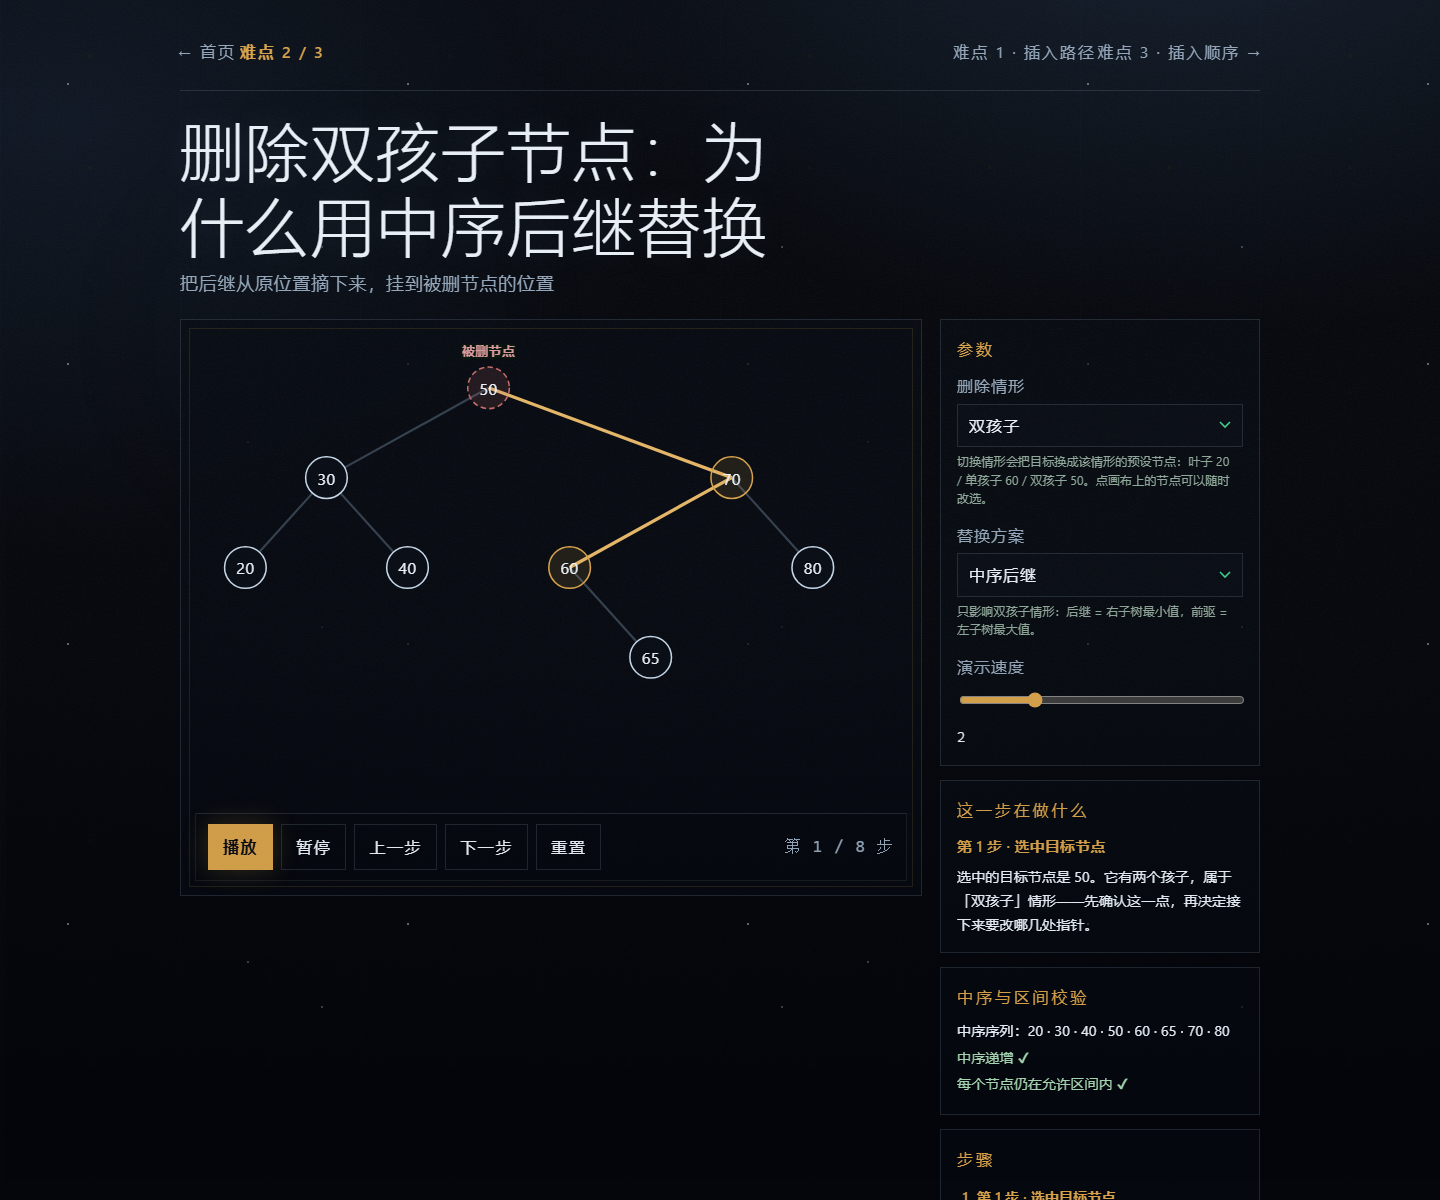
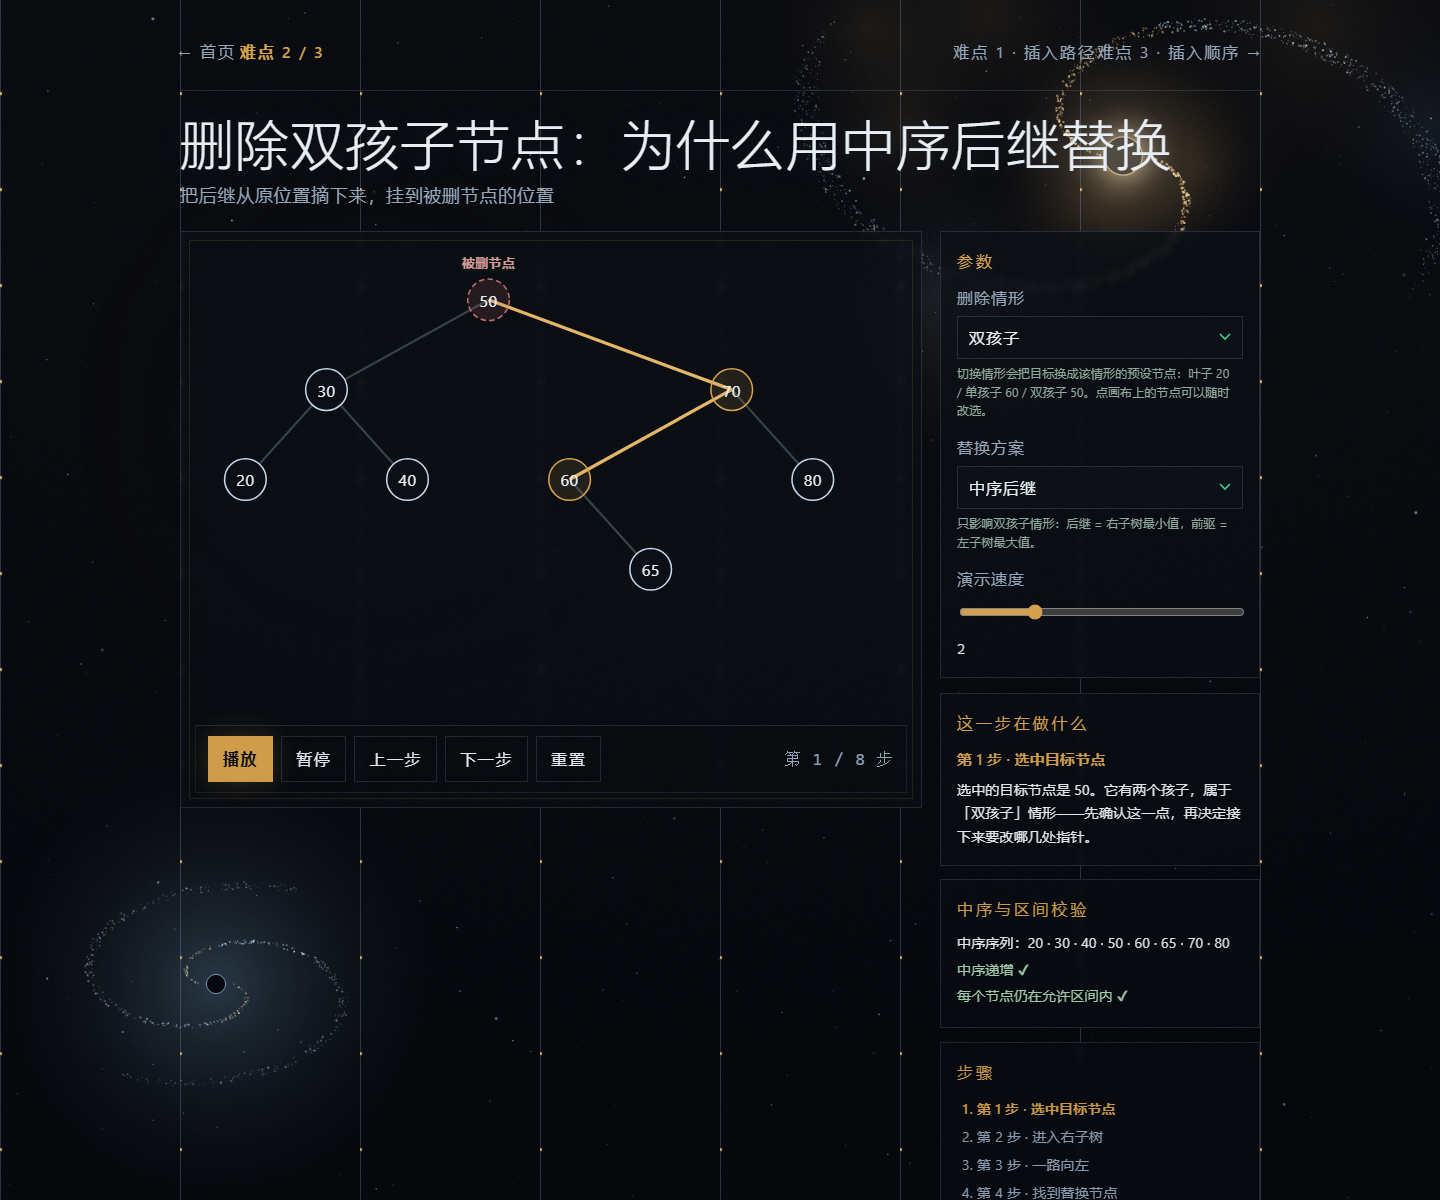
feat(matrix): 加入旋涡星系与动态星空背景

diff --git a/matrix/galaxy.js b/matrix/galaxy.js
@@ -1,0 +1,270 @@
+/* 星空与旋涡星系背景（canvas，纯装饰）
+   - 星点缓慢闪烁，星系缓慢自转
+   - 支持 prefers-reduced-motion：只画一帧
+   - 页面隐藏时暂停 */
+(function () {
+  "use strict";
+
+  var canvas = document.getElementById("galaxy");
+  if (!canvas) return;
+  var ctx = canvas.getContext("2d");
+  var reduce = window.matchMedia && window.matchMedia("(prefers-reduced-motion: reduce)").matches;
+  var dpr = Math.min(window.devicePixelRatio || 1, 2);
+  var w = 0, h = 0;
+  var stars = [];
+  var dust = [];
+  var parts = [];
+  var galaxy2 = { x: 0, y: 0, r: 0 };
+  var parts2 = [];
+  var galaxy = { x: 0.72, y: 0.32, r: 0.42 };
+  var pointer = { x: 0, y: 0 };
+  var scrollShift = 0;
+  var raf = 0;
+  var last = 0;
+  var t0 = 0;
+
+  function rand(a, b) { return a + Math.random() * (b - a); }
+
+  function build() {
+    w = window.innerWidth;
+    h = window.innerHeight;
+    canvas.width = Math.round(w * dpr);
+    canvas.height = Math.round(h * dpr);
+    canvas.style.width = w + "px";
+    canvas.style.height = h + "px";
+    ctx.setTransform(dpr, 0, 0, dpr, 0, 0);
+
+    galaxy.x = w > 900 ? 0.78 : 0.86;
+    galaxy.y = w > 900 ? 0.13 : 0.1;
+    galaxy.r = Math.min(w, h) * (w > 900 ? 0.29 : 0.38);
+    galaxy2.x = w > 900 ? 0.15 : 0.78;
+    galaxy2.y = w > 900 ? 0.82 : 0.9;
+    galaxy2.r = Math.min(w, h) * (w > 900 ? 0.16 : 0.16);
+
+    stars = [];
+    var starCount = Math.round(Math.min(420, (w * h) / 3800));
+    for (var i = 0; i < starCount; i++) {
+      stars.push({
+        x: Math.random() * w,
+        y: Math.random() * h,
+        r: Math.random() < 0.9 ? rand(0.35, 0.9) : rand(0.9, 1.6),
+        a: rand(0.18, 0.8),
+        tw: rand(0.4, 1.4),
+        ph: Math.random() * Math.PI * 2,
+        depth: rand(0.2, 1)
+      });
+    }
+
+    dust = [];
+    for (var d = 0; d < 9; d++) {
+      dust.push({
+        a: Math.random() * Math.PI * 2,
+        t: rand(0.18, 0.95),
+        s: rand(0.22, 0.6),
+        warm: Math.random() < 0.55
+      });
+    }
+
+    parts = [];
+    var arms = 2;
+    var count = Math.round(w > 900 ? 1600 : 800);
+    for (var p = 0; p < count; p++) {
+      var t = Math.pow(Math.random(), 0.62);
+      var arm = p % arms;
+      var spread = rand(-0.12, 0.12) * (0.3 + t);
+      parts.push({
+        t: t,
+        theta: arm * Math.PI + t * 3.6 + spread,
+        r: (0.06 + t * 0.94) * galaxy.r,
+        size: rand(0.5, 1.5) * (1 - t * 0.35),
+        a: rand(0.25, 0.85) * (1 - t * 0.45),
+        warm: t < 0.5
+      });
+    }
+
+    parts2 = [];
+    var arms2 = 2;
+    var count2 = Math.round(w > 900 ? 620 : 260);
+    for (var p2 = 0; p2 < count2; p2++) {
+      var t2 = Math.pow(Math.random(), 0.68);
+      var arm2 = p2 % arms2;
+      var sp2 = rand(-0.16, 0.16) * (0.3 + t2);
+      parts2.push({
+        t: t2,
+        theta: arm2 * Math.PI + t2 * 5.2 + sp2,
+        r: (0.08 + t2 * 0.92) * galaxy2.r,
+        size: rand(0.4, 1.1),
+        a: rand(0.18, 0.7) * (1 - t2 * 0.45),
+        warm: t2 < 0.3
+      });
+    }
+  }
+
+  function draw(time) {
+    var elapsed = time * 0.001;
+    scrollShift = window.scrollY * 0.04;
+    var cx = w * galaxy.x + pointer.x * 14;
+    var cy = h * galaxy.y + pointer.y * 12 - scrollShift;
+
+    ctx.globalCompositeOperation = "source-over";
+    ctx.fillStyle = "#04060b";
+    ctx.fillRect(0, 0, w, h);
+
+    // 星云
+    ctx.globalCompositeOperation = "lighter";
+    for (var i = 0; i < dust.length; i++) {
+      var d = dust[i];
+      var da = d.a + elapsed * 0.004;
+      var dx = cx + Math.cos(da) * galaxy.r * d.t;
+      var dy = cy + Math.sin(da) * galaxy.r * d.t * 0.62;
+      var dr = galaxy.r * d.s;
+      var g = ctx.createRadialGradient(dx, dy, 0, dx, dy, dr);
+      g.addColorStop(0, d.warm ? "rgba(216,162,74,0.10)" : "rgba(120,170,220,0.10)");
+      g.addColorStop(1, "rgba(0,0,0,0)");
+      ctx.fillStyle = g;
+      ctx.fillRect(dx - dr, dy - dr, dr * 2, dr * 2);
+    }
+
+    // 星点
+    for (var s = 0; s < stars.length; s++) {
+      var st = stars[s];
+      var tw = 0.65 + Math.sin(elapsed * st.tw + st.ph) * 0.35;
+      var sy = st.y - scrollShift * st.depth * 0.6;
+      if (sy < -4) sy += h + 8;
+      if (sy > h + 4) sy -= h + 8;
+      ctx.globalAlpha = st.a * tw;
+      ctx.fillStyle = "#dcecff";
+      ctx.beginPath();
+      ctx.arc(st.x, sy, st.r, 0, Math.PI * 2);
+      ctx.fill();
+    }
+    ctx.globalAlpha = 1;
+
+    // 星系核心
+    var core = ctx.createRadialGradient(cx, cy, 0, cx, cy, galaxy.r * 0.42);
+    core.addColorStop(0, "rgba(255,226,178,0.5)");
+    core.addColorStop(0.22, "rgba(255,206,140,0.22)");
+    core.addColorStop(0.6, "rgba(216,162,74,0.08)");
+    core.addColorStop(1, "rgba(0,0,0,0)");
+    ctx.fillStyle = core;
+    ctx.beginPath();
+    ctx.arc(cx, cy, galaxy.r * 0.42, 0, Math.PI * 2);
+    ctx.fill();
+
+    // 旋臂粒子
+    for (var k = 0; k < parts.length; k++) {
+      var q = parts[k];
+      var speed = 0.05 - q.t * 0.022;
+      var ang = q.theta + elapsed * speed;
+      var px = cx + Math.cos(ang) * q.r;
+      var py = cy + Math.sin(ang) * q.r * 0.72;
+      ctx.globalAlpha = q.a;
+      ctx.fillStyle = q.warm ? "#f0c883" : "#bcd8f2";
+      ctx.beginPath();
+      ctx.arc(px, py, q.size, 0, Math.PI * 2);
+      ctx.fill();
+    }
+
+    // 星系核心：暗核 + 吸积环，让旋涡结构有中心
+    ctx.globalCompositeOperation = "source-over";
+    ctx.globalAlpha = 1;
+    var coreR = galaxy.r * 0.055;
+    ctx.beginPath();
+    ctx.arc(cx, cy, coreR, 0, Math.PI * 2);
+    ctx.fillStyle = "#04060b";
+    ctx.fill();
+    ctx.lineWidth = 1.2;
+    ctx.strokeStyle = "rgba(255, 224, 170, 0.85)";
+    ctx.stroke();
+    var ring = ctx.createRadialGradient(cx, cy, coreR, cx, cy, coreR * 3.2);
+    ring.addColorStop(0, "rgba(255, 226, 178, 0.35)");
+    ring.addColorStop(1, "rgba(0,0,0,0)");
+    ctx.fillStyle = ring;
+    ctx.beginPath();
+    ctx.arc(cx, cy, coreR * 3.2, 0, Math.PI * 2);
+    ctx.fill();
+    ctx.globalAlpha = 1;
+
+    // 左下角第二个小星系：正面旋涡，冰蓝色，和右上黑洞形成纵深
+    var c2x = w * galaxy2.x;
+    var c2y = h * galaxy2.y - scrollShift * 0.5;
+    ctx.globalCompositeOperation = "lighter";
+    var halo2 = ctx.createRadialGradient(c2x, c2y, 0, c2x, c2y, galaxy2.r * 1.3);
+    halo2.addColorStop(0, "rgba(150, 205, 245, 0.3)");
+    halo2.addColorStop(1, "rgba(0, 0, 0, 0)");
+    ctx.fillStyle = halo2;
+    ctx.beginPath();
+    ctx.arc(c2x, c2y, galaxy2.r * 1.3, 0, Math.PI * 2);
+    ctx.fill();
+    for (var k2 = 0; k2 < parts2.length; k2++) {
+      var q2 = parts2[k2];
+      var ang2 = q2.theta - elapsed * (0.03 - q2.t * 0.012);
+      var px2 = c2x + Math.cos(ang2) * q2.r;
+      var py2 = c2y + Math.sin(ang2) * q2.r * 0.55;
+      ctx.globalAlpha = q2.a;
+      ctx.fillStyle = q2.warm ? "#f0c883" : "#cfe6f8";
+      ctx.beginPath();
+      ctx.arc(px2, py2, q2.size, 0, Math.PI * 2);
+      ctx.fill();
+    }
+    ctx.globalCompositeOperation = "source-over";
+    ctx.globalAlpha = 1;
+    var core2 = galaxy2.r * 0.05;
+    ctx.beginPath();
+    ctx.arc(c2x, c2y, core2, 0, Math.PI * 2);
+    ctx.fillStyle = "#04060b";
+    ctx.fill();
+    ctx.lineWidth = 1;
+    ctx.strokeStyle = "rgba(178, 216, 244, 0.85)";
+    ctx.stroke();
+    ctx.globalAlpha = 1;
+  }
+
+  function frame(now) {
+    if (!t0) t0 = now;
+    if (now - last >= 33) {
+      draw(now - t0);
+      last = now;
+    }
+    if (!reduce) raf = requestAnimationFrame(frame);
+  }
+
+  function start() {
+    cancelAnimationFrame(raf);
+    if (reduce) {
+      draw(0);
+      return;
+    }
+    last = 0;
+    raf = requestAnimationFrame(frame);
+  }
+
+  window.addEventListener("resize", function () {
+    build();
+    if (reduce) draw(0);
+  });
+
+  window.addEventListener("pointermove", function (e) {
+    pointer.x = (e.clientX / w - 0.5) * 2;
+    pointer.y = (e.clientY / h - 0.5) * 2;
+  }, { passive: true });
+
+  document.addEventListener("visibilitychange", function () {
+    if (document.hidden) {
+      cancelAnimationFrame(raf);
+    } else if (!reduce) {
+      last = 0;
+      raf = requestAnimationFrame(frame);
+    }
+  });
+
+  build();
+  start();
+})();
+
+
+
+
+
+
+

diff --git a/matrix/matrix.css b/matrix/matrix.css
@@ -1426,3 +1426,50 @@ body.matrix::before {
 @media (prefers-reduced-motion: reduce) {
   body.matrix::before { animation: none; }
 }
+
+/* 星系画布：在星尘与引导线之下、内容之上 */
+#galaxy {
+  position: fixed;
+  inset: 0;
+  z-index: 0;
+  width: 100%;
+  height: 100%;
+  pointer-events: none;
+}
+body.matrix::before { z-index: 1; }
+body.matrix { background: #04060b; }
+#galaxy { opacity: 0.9; }
+body.matrix .card { background: rgba(6, 10, 17, 0.72); }
+body.matrix .stage { background: rgba(6, 10, 17, 0.68); }
+body.matrix .card { background: rgba(6, 10, 17, 0.64); }
+body.matrix .stage { background: rgba(6, 10, 17, 0.66); }
+#galaxy { opacity: 0.85; }
+body.matrix .card { background: rgba(6, 10, 17, 0.72); }
+body.matrix .card-link { background: rgba(6, 10, 17, 0.78); }
+@media (max-width: 900px) {
+  #galaxy { opacity: 0.6; }
+}
+@media (max-width: 900px) {
+  body.matrix .cards { grid-template-columns: 1fr; }
+}
+@media (max-width: 640px) {
+  body.matrix .page-head h1 .keep { white-space: normal; }
+}
+@media (max-width: 640px) {
+  body.matrix .page-head h1 .keep { display: block; white-space: nowrap; }
+}
+body.matrix::before {
+  background-image:
+    repeating-linear-gradient(90deg,
+      rgba(168, 198, 232, 0.24) 0 1px,
+      transparent 1px 12.5%),
+    radial-gradient(circle at 0 1px, rgba(230, 178, 86, 0.95) 0 2px, transparent 2.6px);
+  background-size: auto, 12.5% 96px;
+  background-position: 0 0, 0 calc(var(--scroll-y, 0px) * -0.3);
+}
+/* 入场动画只保留页面级转场；卡片直接可见，避免截图/低性能设备停在半透明状态 */
+body.matrix .wrap,
+body.matrix .cards > *,
+body.matrix .layout > * {
+  animation: none !important;
+}

diff --git a/matrix/d2.html b/matrix/d2.html
@@ -212,8 +212,11 @@
   </script>
   <script src="transition.js"></script>
   <script src="effects.js"></script>
+  <canvas id="galaxy" aria-hidden="true"></canvas>
+  <script src="galaxy.js"></script>
 </body>
 </html>
+
 
 
 

diff --git a/matrix/d3.html b/matrix/d3.html
@@ -355,8 +355,11 @@
   </script>
   <script src="transition.js"></script>
   <script src="effects.js"></script>
+  <canvas id="galaxy" aria-hidden="true"></canvas>
+  <script src="galaxy.js"></script>
 </body>
 </html>
+
 
 
 

diff --git a/matrix/d1.html b/matrix/d1.html
@@ -83,8 +83,11 @@
   </script>
   <script src="transition.js"></script>
   <script src="effects.js"></script>
+  <canvas id="galaxy" aria-hidden="true"></canvas>
+  <script src="galaxy.js"></script>
 </body>
 </html>
+
 
 
 

diff --git a/matrix/index.html b/matrix/index.html
@@ -74,8 +74,11 @@
   </script>
   <script src="transition.js"></script>
   <script src="effects.js"></script>
+  <canvas id="galaxy" aria-hidden="true"></canvas>
+  <script src="galaxy.js"></script>
 </body>
 </html>
+
 
 
 

diff --git a/matrix/README.md b/matrix/README.md
@@ -17,7 +17,7 @@ node tools/serve.js 8000
 
 - **深空底色**：`#04060b` 为底，正文 `#eaf1f8`，次级文字 `#93a6ba`；
   强调色只有两种：琥珀 `#d8a24a`（路径、操作）和冰蓝 `#9cc7e8`（对照序列）。
-- **星尘**：固定在视口上的多层细星点，不滚动、不闪烁，只提供空间感。
+- **星尘与星系**：`galaxy.js` 在固定画布上画星点、尘埃和两个缓慢自转的旋涡星系：右上是吸积环，左下是正面旋涡；星点会闪烁，鼠标移动有轻微视差，滚动时整体缓慢上移。镜头以外只留暗星，不抢内容。
 - **滚动引导线**：`body.matrix::before` 画 8 条竖向细线，线上每 140px 一个琥珀刻度；
   刻度随页面滚动上下移动（由 `effects.js` 写入 `--scroll-y`，CSS 计算 `background-position`）。
   它只是背景层，不接收鼠标事件，也不遮挡内容。
@@ -34,7 +34,7 @@ matrix/
   home.css                                    ← 首页版式与入场动效
   matrix.css                                  ← 星际穿越主题与演示页覆盖
   transition.js                               ← 步骤文字的轻量转场
-  effects.js                                  ← 滚动变量（--scroll / --scroll-y）与指针光斑
+  effects.js                                  ← 滚动变量（--scroll / --scroll-y）与指针光斑\n  galaxy.js                                   ← 星尘、旋涡星系与视差动画
   css/style.css                               ← src/css/style.css 的副本
   js/common.js  tree.js  d1.js  d2.js  d3.js  ← src/js/* 的副本
   data/d1.json  d2.json  d3.json              ← 仓库 data/* 的副本
@@ -51,3 +51,5 @@ matrix/
 `img/home-390.png`、`img/d1-390.png`。
 
 课程提交与演示默认仍用 `src/`；这套皮肤用于对比和展示另一种设计方向。
+
+
